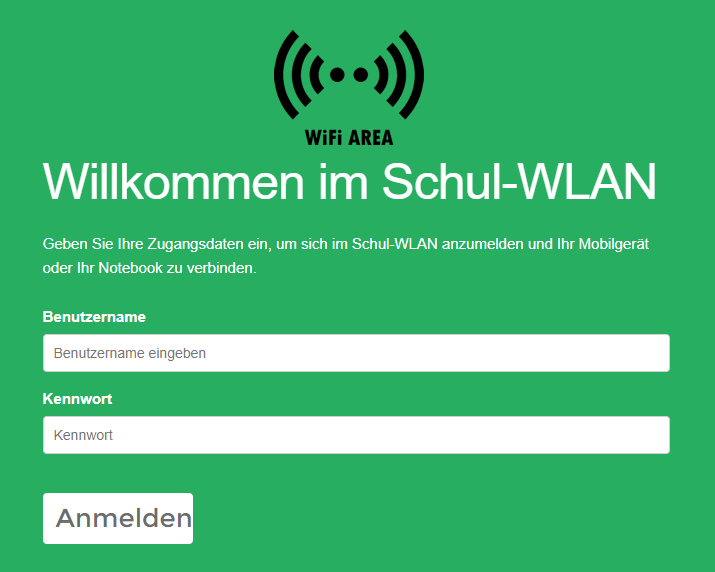
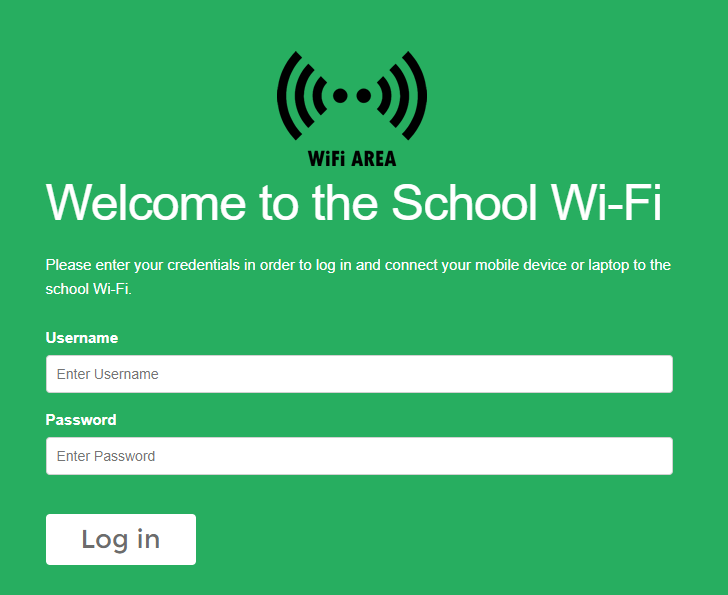
Captive Portal EN

diff --git a/docs/pro-box-b10/captiveportal.md b/docs/pro-box-b10/captiveportal.md
@@ -1,33 +1,29 @@
-# Was ist Captive Portal?
+# What is Captive Portal?
 
-Ein Captive Portal präsentiert dem Benutzer eine Anmeldeseite, die sich nach der Erstverbindung mit dem WLAN automatisch öffnet. Er muss die Nutzungsbedingungen akzeptieren, bevor er auf das WLAN-Netzwerk der Schule bzw. des Unternehmens zugreifen darf. In manchen Fällen kann das Captive Portal einen Benutzernamen und ein Kennwort erfordern. Die Verwendung eines Captive Portals gibt einer Schule bzw. einem Hotel erhöhte Kontrolle über ihre Bandbreite und bietet gleichzeitig individuell anpassbare Grenzen dafür, wie lange Benutzer mit Ihrem Netzwerk verbunden bleiben können.
+A captive portal presents the user with a login page that automatically opens after the initial connection to Wi-Fi networks found in certain public places like hotels, airports or even schools. You must then accept the terms of use before being granted access. In some cases, the captive portal may require a username and password. Using a captive portal gives a school or hotel increased control over its bandwidth while providing customizable limits on how long users can stay connected to your network.
 
-![Captive Portal im Einsatz in einer Schule](/assets/img/captiveportal.login.png)
+![Captive Portal in use at a school](/assets/img/captiveportal.login.png)
 
-## Kann der EZCast Pro sich in einem Captive Portal anmelden?
+## Can EZCast Pro Log Into a Captive Portal?
 
-Da ein Captive Portal ein manuelles Eingeben der Zugangsdaten benötigt, kann EZCast Pro sich nicht in einem Captive Portal anmelden. Jedoch, es ist möglich EZCast Pro in Ihre Infrastruktur zu integrieren, in dem Sie eine `MAC-Authentifizierung` als eine Ausnahme auf Ihrem Router bzw. auf Ihrer Firewall erstellen, damit dieser Schritt entfällt.
+Since a captive portal requires manual entry of credentials, EZCast Pro cannot log into a captive portal. However, it is possible to integrate EZCast Pro into your infrastructure by creating a `MAC authentication` as an exception on your router or firewall to eliminate this step.
 
-Die MAC-Adresse der EZCast Pro Box II ist im Rubrik `Über` in den [Erweiterten Einstellungen](adv.settings.md) zu finden:
+The MAC address of your EZCast Pro II device can be found in the `About Device` section of the [Advanced Settings](adv.settings.md):
 
-![MAC-Adresse im Rubrik Über](/assets/img/D10.About.MAC.jpg)
+![MAC address in About Device](/assets/img/D10.About.MAC.jpg)
 
-Eine MAC-Adresse ist die bessere Wahl als die Verwendung einer IP-Adresse, da sich die MAC-Adresse nicht ändert. Bitte wenden Sie sich an Ihre IT-Abteilung, um die MAC-Adresse der EZCast Pro Box II zuzulassen.
+A MAC address is a better choice than using an IP address because the MAC address does not change. Please contact your IT department to allow the MAC address of the EZCast Pro device.
 
-## Die Direkte Verbindung deaktivieren
+## Deactivate Direct Connections
 
-Es gibt anschließend eine mögliche Sicherheitslücke, die Sie leicht überwinden können:
+After enabling EZCast Pro on your infrustructure without Captive Portal there is a possible security vulnerability that you can easily overcome in order to prevent users being able to access your network without logging in through the Captive Portal first. Disable the hotspot interface of your EZCast Pro device by setting EZCast Pro's available interfaces to `Via Router Only`. See our [Advanced Settings](adv.settings.md#Connection_to_Receiver) guide for more information on Connection configuration:
 
-Damit die EZCast Pro Box II den Nutzern keinen Zugang zu Ihrem Netzwerk ermöglicht, ohne sich erst über das Captive Portal anmelden zu müssen, stellen Sie die Verbindungsmöglichkeit der EZCast Pro Box II auf `Nur via Router` um.
+![Connection - Via Router Only](/assets/img/ezcastpro.II.via.Router.only.settings.png)
 
-![Verbindung - Nur via Router](/assets/img/Connection_EZCastProII.jpg)
+With `Via Router Only` the hotspot (SSID) of your EZCast Pro device is deactivated and it will only be possible to connect to it via your router. The SSID and password are greyed out and the infrustructure IP address is displayed at the bottom of the landing page, as shown below:
 
-Weitere Informationen bzgl. `Direkte Verbindung` und `Über Router` [finden Sie hier](adv.settings.md#Connection_to_Receiver).
-
-Mit `Nur über Router` **(Nur via Router)** wird der Access-Point der EZCast Pro Box II  ausgeschaltet und Sie können nur über Ihren Router mit der Box verbinden. Die SSID und das Passwort werden ausgegraut und die vom Router vergebenen IP-Adresse bzw. die statische IP-Adresse der Box wird auf der Landing Page angezeigt (unten links), wie unten abgebildet:
-
-![](/assets/img/ezcastpro.II.Nur.Ueber.Router.jpg)
+![](/assets/img/ezcastpro.II.via.Router.only.png)
 
 !!! info "Info"
 
-    Mit Miracast handelt es sich trotz der o.g. Einstellung immer um eine direkte Miracast-Verbindung (P2P), die als zusätzliche WLAN-Verbindung nur zur Übertragung des Bildschirms ausgebaut wird. Für die Internetinhalte verwendet das Endgerät die bisherige bzw. die zuletzt verbundene WLAN-Verbindung und dafür müsste der Nutzer sich über die Anmeldeseite angemeldet haben. Das Protokoll Miracast kann sogar auch deaktiviert werden, wenn gewünscht.
+    Despite the above `Via Router Only` setting Miracast devices will still be mirrored to EZCast Pro using the P2P standard while remaining simultaneously connected to the same Wi-Fi network as before for access to internet content. The user will therefore still have to log into the Captive Portal if this is a requirement of your network.

diff --git a/docs/pro-dongle-d10/captiveportal.md b/docs/pro-dongle-d10/captiveportal.md
@@ -1,31 +1,29 @@
-# Was ist Captive Portal?
+# What is Captive Portal?
 
-Ein Captive Portal präsentiert dem Benutzer eine Anmeldeseite, die sich nach der Erstverbindung mit dem WLAN automatisch öffnet. Er muss die Nutzungsbedingungen akzeptieren, bevor er auf das WLAN-Netzwerk der Schule bzw. des Unternehmens zugreifen darf. In manchen Fällen kann das Captive Portal einen Benutzernamen und ein Kennwort erfordern. Die Verwendung eines Captive Portals gibt einer Schule bzw. einem Hotel erhöhte Kontrolle über ihre Bandbreite und bietet gleichzeitig individuell anpassbare Grenzen dafür, wie lange Benutzer mit Ihrem Netzwerk verbunden bleiben können.
+A captive portal presents the user with a login page that automatically opens after the initial connection to Wi-Fi networks found in certain public places like hotels, airports or even schools. You must then accept the terms of use before being granted access. In some cases, the captive portal may require a username and password. Using a captive portal gives a school or hotel increased control over its bandwidth while providing customizable limits on how long users can stay connected to your network.
 
-![Captive Portal im Einsatz in einer Schule](/assets/img/captiveportal.login.png)
+![Captive Portal in use at a school](/assets/img/captiveportal.login.png)
 
-## Kann der EZCast Pro sich in einem Captive Portal anmelden?
+## Can EZCast Pro Log Into a Captive Portal?
 
-Da ein Captive Portal ein manuelles Eingeben der Zugangsdaten benötigt, kann EZCast Pro sich nicht in einem Captive Portal anmelden. Jedoch, es ist möglich EZCast Pro in Ihre Infrastruktur zu integrieren, in dem Sie eine `MAC-Authentifizierung` als eine Ausnahme auf Ihrem Router bzw. auf Ihrer Firewall erstellen, damit dieser Schritt entfällt.
+Since a captive portal requires manual entry of credentials, EZCast Pro cannot log into a captive portal. However, it is possible to integrate EZCast Pro into your infrastructure by creating a `MAC authentication` as an exception on your router or firewall to eliminate this step.
 
-Die MAC-Adresse des EZCast Pro Dongle II ist im Rubrik `Über` in den [Erweiterten Einstellungen](adv.settings.md) zu finden:
+The MAC address of your EZCast Pro II device can be found in the `About Device` section of the [Advanced Settings](adv.settings.md):
 
-![MAC-Adresse im Rubrik Über](/assets/img/D10.About.MAC.jpg)
+![MAC address in About Device](/assets/img/D10.About.MAC.jpg)
 
-Eine MAC-Adresse ist die bessere Wahl als die Verwendung einer IP-Adresse, da sich die MAC-Adresse nicht ändert. Bitte wenden Sie sich an Ihre IT-Abteilung, um die MAC-Adresse des EZCast Pro Dongle II zuzulassen.
+A MAC address is a better choice than using an IP address because the MAC address does not change. Please contact your IT department to allow the MAC address of the EZCast Pro device.
 
-## Die Direkte Verbindung deaktivieren
+## Deactivate Direct Connections
 
-Damit der EZCast Pro Dongle II den Nutzern keinen Zugang zu Ihrem Netzwerk ermöglicht, ohne sich erst über das Captive Portal anmelden zu müssen, stellen Sie die Verbindungsmöglichkeit des EZCast Pro Dongle II auf `Nur via Router` um.
+After enabling EZCast Pro on your infrustructure without Captive Portal there is a possible security vulnerability that you can easily overcome in order to prevent users being able to access your network without logging in through the Captive Portal first. Disable the hotspot interface of your EZCast Pro device by setting EZCast Pro's available interfaces to `Via Router Only`. See our [Advanced Settings](adv.settings.md#Connection_to_Receiver) guide for more information on Connection configuration:
 
-![Verbindung - Nur via Router](/assets/img/Connection_EZCastProII.jpg)
+![Connection - Via Router Only](/assets/img/ezcastpro.II.via.Router.only.settings.png)
 
-Weitere Informationen bzgl. `Direkte Verbindung` und `Über Router` [finden Sie hier](adv.settings.md#Connection_to_Receiver).
+With `Via Router Only` the hotspot (SSID) of your EZCast Pro device is deactivated and it will only be possible to connect to it via your router. The SSID and password are greyed out and the infrustructure IP address is displayed at the bottom of the landing page, as shown below:
 
-Mit `Nur über Router` **(Nur via Router)** wird der Access-Point des EZCast Pro Dongle II  ausgeschaltet und Sie können nur über Ihren Router mit den Dongle verbinden. Die SSID und das Passwort werden ausgegraut und die vom Router vergebenen IP-Adresse bzw. die statische IP-Adresse des Dongles wird auf der Landing Page angezeigt (unten links), wie unten abgebildet:
+![](/assets/img/ezcastpro.II.via.Router.only.png)
 
-![](/assets/img/ezcastpro.II.Nur.Ueber.Router.jpg)
+!!! info "Info"
 
-!!! info ""
-
-    Bei Miracast handelt es sich trotz der o.g. Einstellung immer um eine direkte Miracast-Verbindung (P2P), die als zusätzliche WLAN-Verbindung nur zur Übertragung des Bildschirms ausgebaut wird. Für die Internetinhalte verwendet das Endgerät die bisherige bzw. die zuletzt verbundene WLAN-Verbindung und dafür müsste der Nutzer sich über die Anmeldeseite angemeldet haben. Das Protokoll Miracast kann sogar auch deaktiviert werden, wenn gewünscht.
+    Despite the above `Via Router Only` setting Miracast devices will still be mirrored to EZCast Pro using the P2P standard while remaining simultaneously connected to the same Wi-Fi network as before for access to internet content. The user will therefore still have to log into the Captive Portal if this is a requirement of your network.
